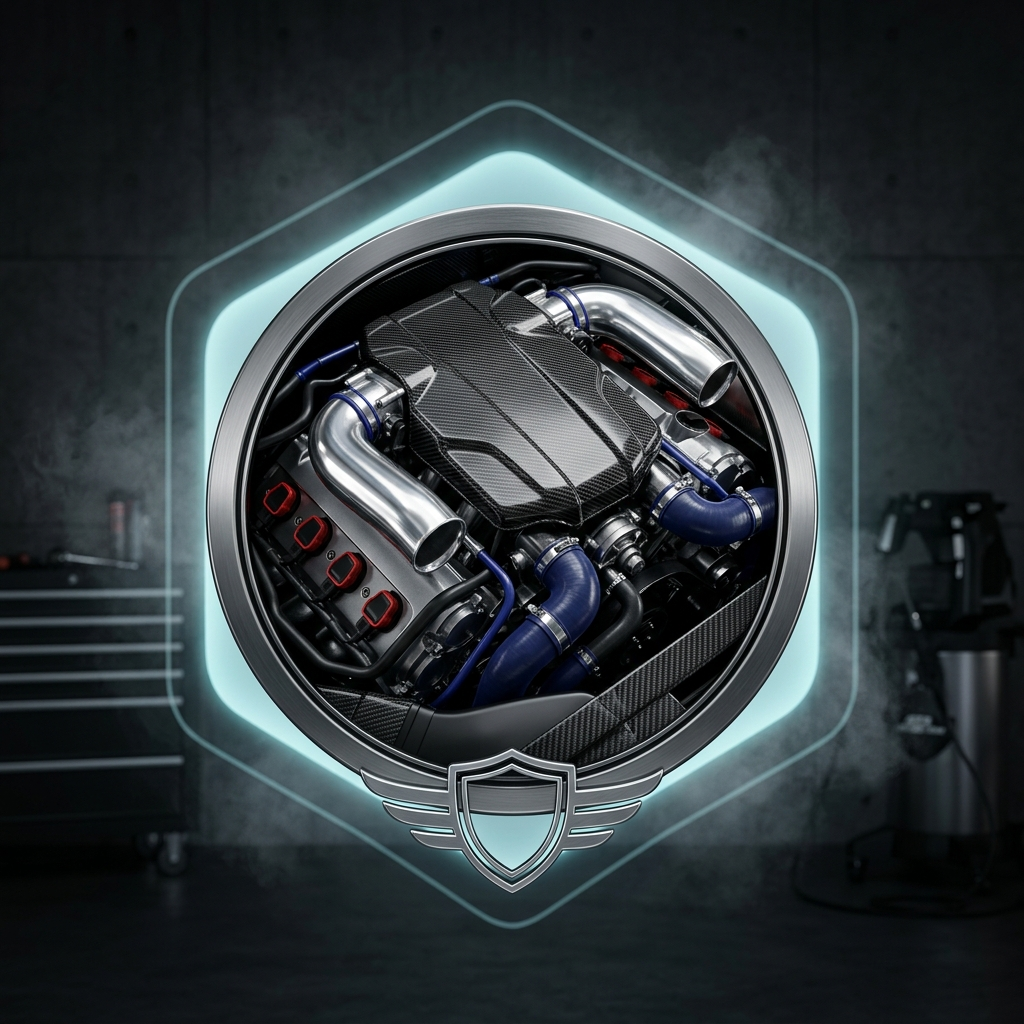
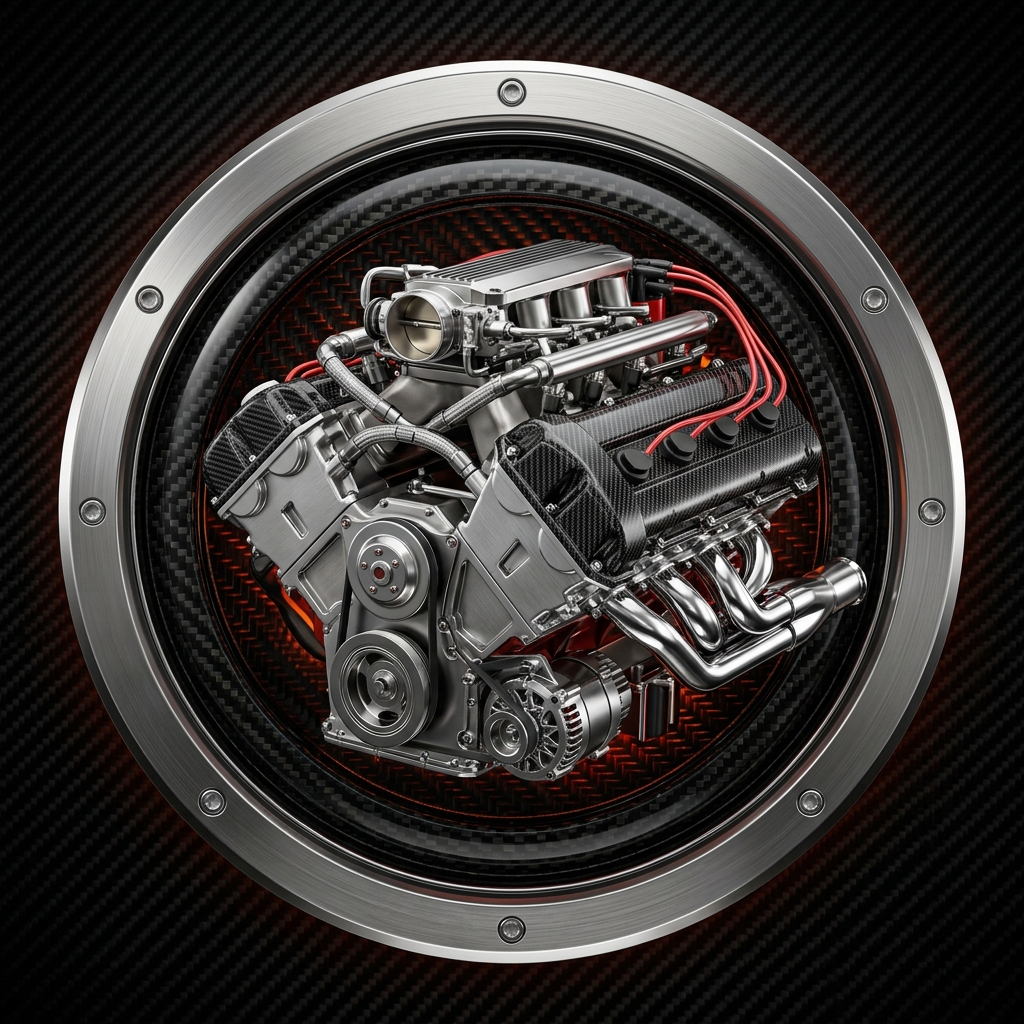
feat(cotizador): update GT vehicle renders, extras badges & non-invasive exit-intent modal

diff --git a/resources/views/reserva.blade.php b/resources/views/reserva.blade.php
@@ -387,49 +387,58 @@
                             <span>Selecciona la Categoría / Tamaño de tu Vehículo *</span>
                         </h4>
 
-                        <div class="grid grid-cols-1 sm:grid-cols-2 md:grid-cols-3 gap-4">
+                        <div class="grid grid-cols-1 sm:grid-cols-2 md:grid-cols-3 gap-5">
                             <template x-for="vt in displayedVehicleTypes" :key="vt.id + '_' + (isExoShieldService(selectedService) ? 'exo' : 'std')">
                                 <button 
                                     type="button"
                                     @click="selectVehicle(vt)"
-                                    class="relative rounded-[2rem] border-2 transition-all duration-300 text-left p-4 sm:p-5 flex flex-col justify-between cursor-pointer group select-none overflow-hidden"
+                                    class="relative rounded-[2.2rem] sm:rounded-[2.5rem] border-2 transition-all duration-300 text-left flex flex-col justify-between cursor-pointer group select-none overflow-hidden"
                                     :class="selectedVehicle && selectedVehicle.id === vt.id
                                         ? 'border-brand bg-zinc-950 shadow-2xl shadow-brand/40 ring-2 ring-brand/50 scale-[1.02]'
-                                        : 'border-white/15 bg-zinc-950/80 hover:border-brand/50 hover:bg-zinc-900'"
+                                        : 'border-white/15 bg-zinc-950/90 hover:border-brand/60 hover:bg-zinc-900 hover:scale-[1.01]'"
                                 >
                                     <!-- Ambient Glow when selected -->
-                                    <div x-show="selectedVehicle && selectedVehicle.id === vt.id" class="absolute -top-12 -right-12 w-32 h-32 bg-brand/30 rounded-full blur-3xl pointer-events-none"></div>
+                                    <div x-show="selectedVehicle && selectedVehicle.id === vt.id" class="absolute -top-12 -right-12 w-44 h-44 bg-brand/30 rounded-full blur-3xl pointer-events-none z-10"></div>
 
-                                    <!-- Top Row: 3D Artwork Image & Checkbox -->
-                                    <div class="flex items-start justify-between gap-3 mb-4">
-                                        <div class="w-28 h-28 sm:w-36 sm:h-36 rounded-2xl overflow-hidden bg-black/60 p-1 border transition-all duration-300 shrink-0 shadow-xl"
-                                             :class="selectedVehicle && selectedVehicle.id === vt.id 
-                                                ? 'border-brand ring-2 ring-brand/40 shadow-[0_0_25px_rgba(251,44,107,0.5)]' 
-                                                : 'border-white/10 group-hover:border-brand/40'">
-                                            <img :src="getVehicleImage(vt)" :alt="vt.name" class="w-full h-full object-cover rounded-xl transition-transform duration-500 group-hover:scale-105">
-                                        </div>
+                                    <!-- Card Header Image: Full width top showcase banner -->
+                                    <div class="relative w-full aspect-[4/3] sm:h-60 md:h-64 overflow-hidden bg-black/95 shrink-0 border-b border-white/10">
+                                        <img 
+                                            :src="getVehicleImage(vt)" 
+                                            :alt="vt.name" 
+                                            class="w-full h-full object-cover object-center group-hover:scale-108 transition-transform duration-700 ease-out"
+                                        >
+                                        
+                                        <!-- Gradient overlay for cinematic depth -->
+                                        <div class="absolute inset-0 bg-gradient-to-t from-zinc-950 via-zinc-950/20 to-black/20 pointer-events-none"></div>
 
-                                        <!-- Selected Check Circle -->
-                                        <div class="w-7 h-7 rounded-full flex items-center justify-center transition-all duration-300"
-                                             :class="selectedVehicle && selectedVehicle.id === vt.id ? 'bg-brand text-white shadow-lg shadow-brand/60' : 'bg-white/5 text-transparent border border-white/20 group-hover:border-brand/50'">
+                                        <!-- Selected Check Circle Floating Badge (Top Right) -->
+                                        <div 
+                                            class="absolute top-4 right-4 z-20 w-8 h-8 rounded-full flex items-center justify-center backdrop-blur-md transition-all duration-300 shadow-lg"
+                                            :class="selectedVehicle && selectedVehicle.id === vt.id 
+                                                ? 'bg-brand text-white shadow-brand/60 scale-110 ring-2 ring-white/20' 
+                                                : 'bg-black/60 text-transparent border border-white/30 group-hover:border-brand/60'"
+                                        >
                                             <svg class="w-4 h-4" fill="none" viewBox="0 0 24 24" stroke="currentColor" stroke-width="3">
                                                 <polyline points="20 6 9 17 4 12"/>
                                             </svg>
                                         </div>
                                     </div>
 
-                                    <div>
-                                        <h5 class="font-display italic font-black text-white text-lg sm:text-xl tracking-tight mb-1 transition-colors"
-                                            :class="selectedVehicle && selectedVehicle.id === vt.id ? 'text-brand' : 'text-white group-hover:text-brand'"
-                                            x-text="vt.name"></h5>
-                                        <p class="text-white/50 text-xs line-clamp-2" x-text="vt.description"></p>
-                                    </div>
-                                    
-                                    <div class="mt-4 pt-3 border-t border-white/10 flex items-center justify-between text-xs font-bold">
-                                        <span class="uppercase tracking-wider transition-colors"
-                                              :class="selectedVehicle && selectedVehicle.id === vt.id ? 'text-brand font-black' : 'text-white/40 group-hover:text-brand'"
-                                              x-text="selectedVehicle && selectedVehicle.id === vt.id ? '✓ SELECCIONADO' : 'ELEGIR'"></span>
-                                        <span class="text-white/90 font-mono font-black text-xs sm:text-sm" x-text="selectedService ? formatCLP(getAdjustedPriceForVehicle(selectedService, vt)) : ''"></span>
+                                    <!-- Card Body Content -->
+                                    <div class="p-5 sm:p-6 flex flex-col justify-between flex-1">
+                                        <div>
+                                            <h5 class="font-display italic font-black text-white text-xl sm:text-2xl tracking-tight mb-1.5 transition-colors"
+                                                :class="selectedVehicle && selectedVehicle.id === vt.id ? 'text-brand' : 'text-white group-hover:text-brand'"
+                                                x-text="vt.name"></h5>
+                                            <p class="text-white/60 text-xs sm:text-sm line-clamp-2 leading-relaxed" x-text="vt.description"></p>
+                                        </div>
+                                        
+                                        <div class="mt-4 pt-3.5 border-t border-white/10 flex items-center justify-between text-xs sm:text-sm font-bold">
+                                            <span class="uppercase tracking-wider transition-colors"
+                                                  :class="selectedVehicle && selectedVehicle.id === vt.id ? 'text-brand font-black' : 'text-white/40 group-hover:text-brand'"
+                                                  x-text="selectedVehicle && selectedVehicle.id === vt.id ? '✓ SELECCIONADO' : 'ELEGIR'"></span>
+                                            <span class="text-brand font-mono font-black text-sm sm:text-base" x-text="selectedService ? formatCLP(getAdjustedPriceForVehicle(selectedService, vt)) : ''"></span>
+                                        </div>
                                     </div>
                                 </button>
                             </template>
@@ -721,7 +730,7 @@
 
         </div>
 
-        <!-- EXIT INTENT RETENTION MODAL -->
+        <!-- EXIT INTENT RETENTION MODAL (NON-INVASIVE: 1 TIME PER SESSION ONLY) -->
         <template x-teleport="body">
             <div 
                 x-show="showExitModal" 
@@ -733,11 +742,11 @@
                 x-transition:leave-end="opacity-0"
                 class="fixed inset-0 z-[999999] flex items-center justify-center p-3 sm:p-6 bg-black/90 backdrop-blur-2xl select-none"
                 style="display: none; z-index: 999999 !important;"
-                @keydown.escape.window="showExitModal = false"
+                @keydown.escape.window="dismissExitModal()"
             >
                 <!-- Modal Box -->
                 <div 
-                    @click.away="showExitModal = false"
+                    @click.away="dismissExitModal()"
                     x-transition:enter="transition ease-out duration-300"
                     x-transition:enter-start="opacity-0 scale-90 translate-y-4"
                     x-transition:enter-end="opacity-100 scale-100 translate-y-0"
@@ -750,7 +759,7 @@
                     <!-- Close Button -->
                     <button 
                         type="button" 
-                        @click="showExitModal = false" 
+                        @click="dismissExitModal()" 
                         class="absolute top-4 right-4 z-30 w-9 h-9 rounded-full bg-black/70 backdrop-blur-md hover:bg-white/20 text-white/70 hover:text-white flex items-center justify-center transition-colors cursor-pointer border border-white/15 shadow-lg"
                     >
                         <svg class="w-5 h-5" fill="none" viewBox="0 0 24 24" stroke="currentColor" stroke-width="2">
@@ -759,76 +768,58 @@
                     </button>
 
                     <!-- Inner Content Box (Compact Height, Fits Perfectly & Zero Visible Scrollbars) -->
-                    <div class="p-5 sm:p-6 overflow-y-auto overflow-x-hidden scrollbar-none flex-1 relative z-10">
-
-                        <!-- Dynamic High-End Video Header (Coherent with the selected service) -->
-                        <div class="relative w-full h-28 sm:h-32 md:h-36 rounded-xl sm:rounded-2xl overflow-hidden mb-3 shrink-0 border border-brand/40 shadow-2xl bg-black group">
+                    <div class="p-6 sm:p-8 flex flex-col items-center justify-center text-center relative z-10 w-full overflow-hidden">
+                        
+                        <!-- Top Floating Video Badge (Cinematic Luxury Detailing Preview) -->
+                        <div class="relative w-full h-36 sm:h-40 rounded-2xl overflow-hidden mb-4 border border-brand/40 shadow-inner bg-black shrink-0">
                             <video 
-                                :src="getPopupVideo()" 
                                 autoplay 
                                 loop 
                                 muted 
                                 playsinline 
-                                class="w-full h-full object-cover transition-transform duration-700 group-hover:scale-105"
-                            ></video>
-                            <!-- Gradient overlay on video for smooth modal blend -->
-                            <div class="absolute inset-0 bg-gradient-to-t from-zinc-950 via-zinc-950/30 to-transparent pointer-events-none"></div>
+                                class="w-full h-full object-cover opacity-80 pointer-events-none scale-105"
+                            >
+                                <source :src="getPopupVideo()" type="video/mp4">
+                            </video>
                             
-                            <!-- Live Service Badge -->
-                            <div class="absolute top-3 left-3 px-3 py-1 rounded-full bg-black/80 backdrop-blur-md border border-brand/60 text-white text-[10px] font-black uppercase tracking-widest flex items-center gap-2 shadow-xl">
-                                <span class="w-2 h-2 rounded-full bg-brand animate-ping"></span>
-                                <span class="text-brand font-bold truncate max-w-[200px]" x-text="selectedService ? selectedService.name : 'Detailing Center'"></span>
+                            <!-- Gradient overlay on video for smooth modal blend -->
+                            <div class="absolute inset-0 bg-gradient-to-t from-zinc-950 via-zinc-950/40 to-transparent"></div>
+
+                            <!-- Exclusive Deal Badge on Video -->
+                            <div class="absolute top-3 left-3 bg-brand text-white text-[10px] font-black uppercase px-3 py-1 rounded-full shadow-lg flex items-center gap-1.5 tracking-wider border border-white/20">
+                                <span>⚡</span>
+                                <span>ASESORÍA EXCLUSIVA</span>
                             </div>
                         </div>
 
-                        <!-- Badge -->
-                        <div class="mb-1.5 shrink-0">
-                            <span class="inline-flex items-center gap-1.5 px-3 py-0.5 rounded-full bg-brand/15 border border-brand/40 text-brand text-[10px] sm:text-[11px] font-black uppercase tracking-widest">
-                                <span>⚡</span>
-                                <span x-text="selectedService ? 'Asesoría Técnica en 1 Clic' : '¿Buscas Asesoría Personalizada?'"></span>
-                            </span>
-                        </div>
-
-                        <!-- Title -->
-                        <h3 class="font-display italic font-black text-lg sm:text-xl md:text-2xl text-white uppercase tracking-tight leading-snug shrink-0 break-words">
-                            <template x-if="selectedService">
-                                <span>¿Tienes dudas con tu <span class="text-brand" x-text="selectedService.name"></span>?</span>
-                            </template>
-                            <template x-if="!selectedService">
-                                <span>¿Tienes dudas para elegir tu <span class="text-brand">Servicio de Detailing</span>?</span>
-                            </template>
+                        <!-- Main Modal Heading -->
+                        <h3 class="font-display font-black text-xl sm:text-2xl text-white uppercase tracking-tight mb-1.5 leading-tight">
+                            ¿TIENES DUDAS CON TU <span class="text-gradient">COTIZACIÓN?</span>
                         </h3>
 
-                        <p class="text-xs sm:text-sm text-white/70 mt-1.5 leading-relaxed font-medium shrink-0">
-                            <template x-if="selectedService">
-                                <span>No te preocupes por los tecnicismos. Nuestro equipo especializado en Chicureo te asesora al instante por WhatsApp para resolver dudas sobre tiempos, durabilidad y disponibilidad.</span>
-                            </template>
-                            <template x-if="!selectedService">
-                                <span>No te preocupes por los tecnicismos. Cuéntanos qué necesita tu vehículo y nuestro equipo técnico en Chicureo te recomendará el tratamiento ideal al instante por WhatsApp.</span>
-                            </template>
+                        <!-- Subtitle with dynamic service reference -->
+                        <p class="text-xs sm:text-sm text-white/75 leading-relaxed max-w-sm mb-4">
+                            Un especialista de <strong class="text-brand">High Contrast</strong> puede asesorarte directamente para elegir el mejor tratamiento para tu auto.
                         </p>
 
-                        <!-- Summary Snapshot Card (When service is selected) -->
-                        <template x-if="selectedService">
-                            <div class="my-3 p-3 sm:p-3.5 rounded-xl sm:rounded-2xl bg-zinc-900/90 border border-white/10 flex items-center justify-between text-left shrink-0">
-                                <div class="min-w-0 flex-1 pr-2">
-                                    <span class="text-[10px] font-extrabold uppercase tracking-wider text-brand block">SERVICIO SELECCIONADO</span>
-                                    <p class="text-xs sm:text-sm font-bold text-white truncate" x-text="selectedService.name"></p>
-                                    <span x-show="selectedVehicle" class="text-[10px] sm:text-[11px] text-white/70 block mt-0.5" x-text="'Categoría: ' + (selectedVehicle ? selectedVehicle.name : '')"></span>
-                                </div>
-                                <div class="text-right shrink-0">
-                                    <span class="text-[10px] text-white/40 uppercase block">Total</span>
-                                    <span class="text-brand font-display font-black text-base sm:text-lg" x-text="formatCLP(getTotalPrice())"></span>
-                                </div>
+                        <!-- Live Quote Summary Pill -->
+                        <div class="w-full p-3.5 rounded-2xl bg-zinc-900/90 border border-white/10 mb-4 flex items-center justify-between text-left">
+                            <div class="min-w-0 pr-2">
+                                <span class="text-[10px] uppercase font-bold tracking-wider text-white/40 block">Servicio Seleccionado</span>
+                                <span class="font-display font-bold text-xs sm:text-sm text-white truncate block" x-text="selectedService ? selectedService.name : 'Tratamiento Detailing'"></span>
                             </div>
-                        </template>
+                            <div class="text-right shrink-0">
+                                <span class="text-[10px] uppercase font-bold tracking-wider text-white/40 block">Presupuesto</span>
+                                <span class="font-display font-black text-sm sm:text-base text-brand" x-text="formatCLP(getTotalPrice())"></span>
+                            </div>
+                        </div>
 
                         <!-- Action Buttons -->
-                        <div class="space-y-2.5 pt-3">
+                        <div class="space-y-2.5 pt-1 w-full">
                             <a 
                                 :href="getExitWhatsAppUrl()" 
                                 target="_blank"
-                                @click="showExitModal = false"
+                                @click="dismissExitModal()"
                                 class="w-full py-3.5 px-5 rounded-full bg-emerald-600 hover:bg-emerald-500 text-white font-display italic font-black text-xs sm:text-sm uppercase tracking-wider shadow-lg shadow-emerald-600/40 flex items-center justify-center gap-2.5 transition-all hover:scale-[1.02]"
                             >
                                 <svg class="w-4 h-4 sm:w-5 sm:h-5 fill-current" viewBox="0 0 24 24">
@@ -839,7 +830,7 @@
 
                             <button 
                                 type="button" 
-                                @click="showExitModal = false; scrollToTop()" 
+                                @click="dismissExitModal(); scrollToTop()" 
                                 class="w-full py-2.5 px-5 rounded-full border border-white/20 text-white/70 hover:text-white hover:border-white/40 text-xs font-bold uppercase tracking-wider transition-all cursor-pointer"
                             >
                                 Prefiero continuar cotizando online
@@ -1022,32 +1013,39 @@ function bookingWizard() {
             this.setupExitIntent();
         },
 
+        dismissExitModal() {
+            this.showExitModal = false;
+            try {
+                sessionStorage.setItem('hcd_exit_modal_dismissed', '1');
+            } catch (e) {}
+        },
+
         setupExitIntent() {
-            let lastTriggerTime = 0;
+            // Option 1: Strict & Non-Invasive Exit-Intent (Max 1 time per browser session)
             const handleExitIntent = (e) => {
-                // If cursor moves to the top of the window (attempting to close tab / switch tabs / URL bar)
-                const isLeavingTop = (e.clientY <= 30) || (e.type === 'mouseleave' && e.clientY <= 50) || (!e.relatedTarget && e.clientY <= 30);
-                
-                if (isLeavingTop && !this.isSubmitting && !this.showExitModal) {
-                    const now = Date.now();
-                    // Cooldown of 20 seconds between dismissals
-                    if (now - lastTriggerTime > 20000) {
-                        lastTriggerTime = now;
-                        this.showExitModal = true;
+                // Check if already shown or dismissed in this browser session
+                try {
+                    if (sessionStorage.getItem('hcd_exit_modal_dismissed') === '1') {
+                        return;
                     }
+                } catch (err) {}
+
+                // Only trigger if user is on step 2, has selected a service, and is not currently submitting
+                if (this.currentStep !== 2 || !this.selectedService || this.isSubmitting || this.showExitModal) {
+                    return;
+                }
+
+                // Strictly detect when cursor leaves through the top of the browser window (closing tab, URL bar)
+                if (e.clientY <= 0) {
+                    try {
+                        sessionStorage.setItem('hcd_exit_modal_dismissed', '1');
+                    } catch (err) {}
+                    this.showExitModal = true;
                 }
             };
 
+            // Only listen to mouseleave at the document level (never mouseout to avoid false positives with navbar/buttons)
             document.addEventListener('mouseleave', handleExitIntent);
-            document.addEventListener('mouseout', handleExitIntent);
-
-            // Inactivity timer on step 2 (after 40s without submitting)
-            setTimeout(() => {
-                if (this.currentStep === 2 && !this.isSubmitting && !this.showExitModal && (Date.now() - lastTriggerTime > 20000)) {
-                    lastTriggerTime = Date.now();
-                    this.showExitModal = true;
-                }
-            }, 40000);
         },
 
         getExitWhatsAppUrl() {
@@ -1423,7 +1421,7 @@ function bookingWizard() {
                     name: 'Tratamiento Ozono',
                     price: 25000,
                     description: 'Desinfección profunda y esterilización del habitáculo mediante gas ozono (O3).',
-                    image: '/assets/images/extras/eliminacion-olores.jpg',
+                    image: '/assets/images/extras/tratamiento-ozono.jpg',
                     icon: '💨'
                 },
                 {
@@ -1463,7 +1461,7 @@ function bookingWizard() {
                     name: 'Protección con cerámico en telas',
                     price: 40000,
                     description: 'Repelencia hidrofóbica para tapices de tela ($40.000 2 corridas / $50.000 3 corridas).',
-                    image: '/assets/images/extras/tratamiento-cuero.jpg',
+                    image: '/assets/images/extras/proteccion-plastica.jpg',
                     icon: '🛡'
                 },
                 {
